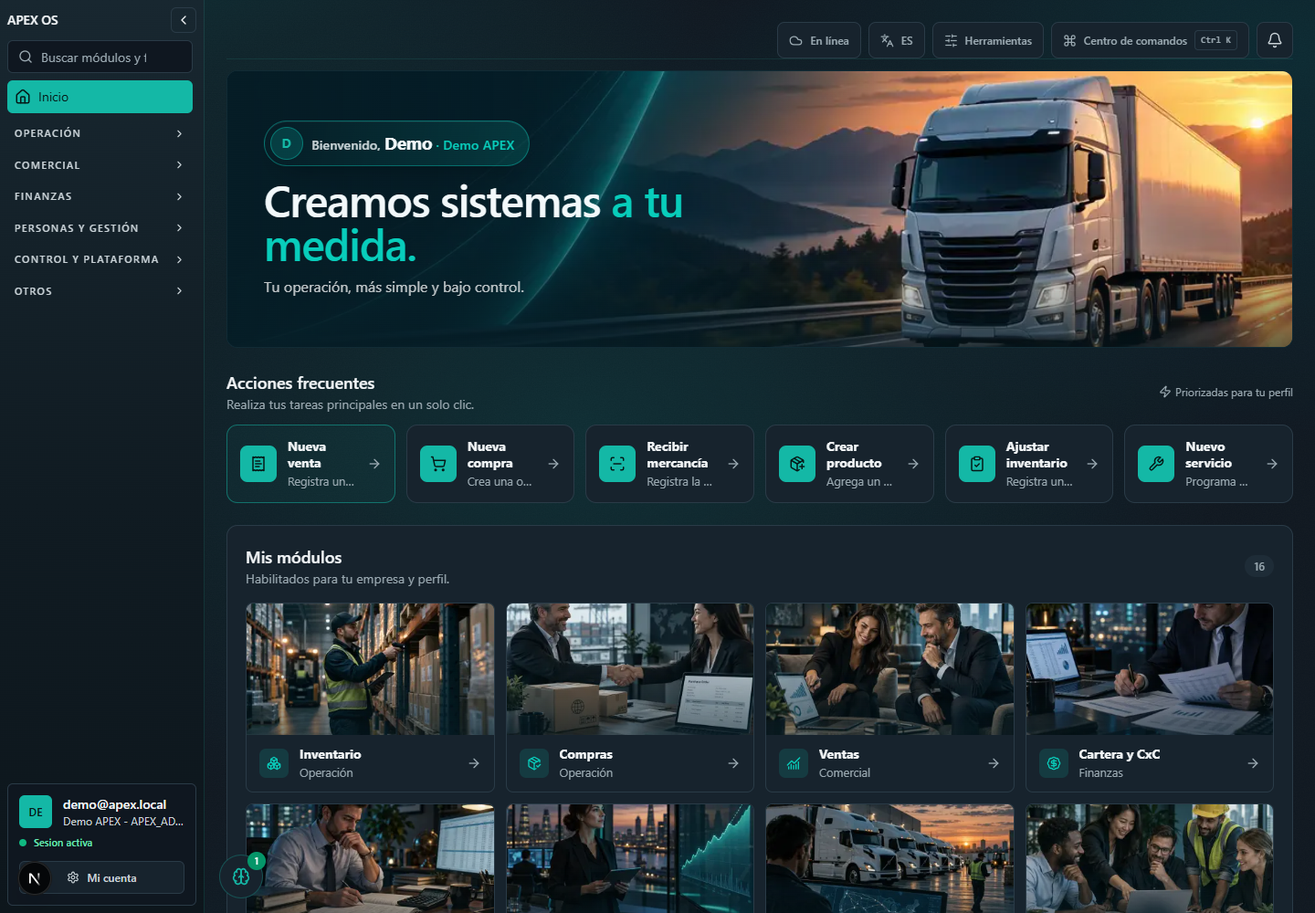
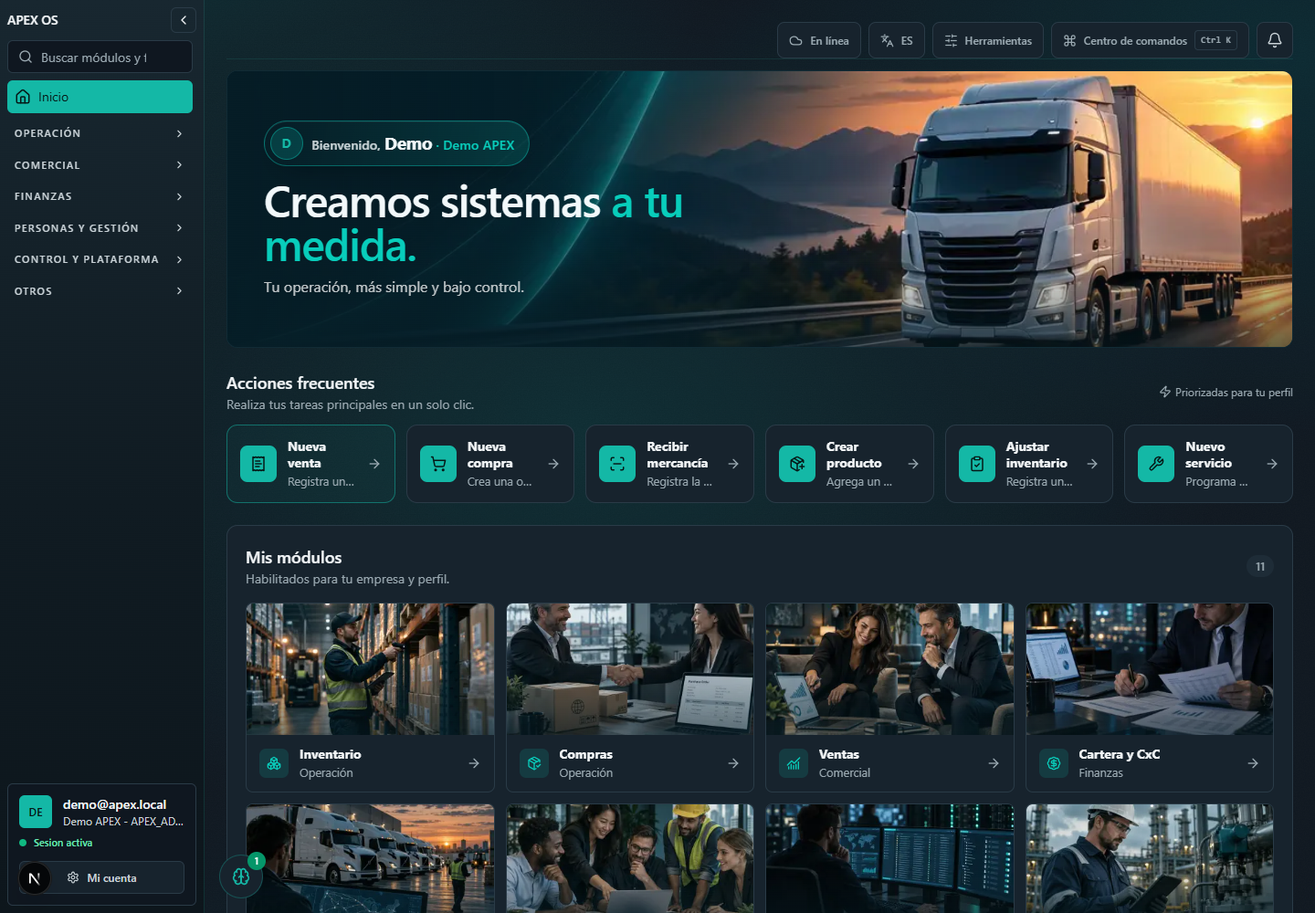
feat(web): el portafolio baja a 12 modulos y retira cinco mas de la oferta
Contabilidad, Tesoreria, Proyectos, APEX Control y APEX AI Core salen del
lobby, la barra, el buscador y las acciones frecuentes por decision del dueno;
sus fichas, assets y rutas publicadas se conservan como excepciones declaradas.
Facturas recibidas queda accesible solo por URL y se declara en la evidencia.

Changed region(s): [[0.1875, 0.868, 0.9688, 1.0]]

diff --git a/apps/web/lib/moduleFunctions.ts b/apps/web/lib/moduleFunctions.ts
@@ -34,17 +34,8 @@ export const MODULE_FUNCTIONS: ModuleFunction[] = [
   { id: "fn-comercio-configuracion", label: "Configurar la vitrina del comercio", description: "Datos del negocio, redes, WhatsApp y campana de descuentos", href: "/dashboard/comercio/configuracion", module: "comercio", keywords: "configuracion vitrina publica codigo whatsapp instagram facebook campana descuento moneda comercio" },
   { id: "fn-comercio-promociones", label: "Gestionar promociones del comercio", description: "Campanas de descuento por categoria o producto y envio por WhatsApp", href: "/dashboard/comercio/promociones", module: "comercio", keywords: "promocion campana descuento mercadeo audiencia categoria producto whatsapp cliente comercio" },
 
-  // Contabilidad
-  { id: "fn-contab-saldos-iniciales", label: "Importar saldos iniciales", description: "Cargue de saldos contables de apertura", href: "/dashboard/contabilidad/importar-saldos-iniciales", module: "contabilidad", keywords: "saldo apertura inicial importar contabilidad" },
-  { id: "fn-contab-pyg", label: "Ver PYG por vehiculo", description: "Estado de resultados por placa: ingresos, gastos y utilidad contra presupuesto", href: "/dashboard/contabilidad/pyg", module: "contabilidad", keywords: "pyg estado resultados utilidad gastos vehiculo placa centro costo presupuesto cumplimiento rentabilidad" },
-  { id: "fn-contab-asientos", label: "Consultar asientos contables", description: "Revisa el registro contable y sus movimientos", href: "/dashboard/contabilidad/asientos", module: "contabilidad", keywords: "asiento contable libro diario comprobante registro movimiento" },
-  { id: "fn-contab-cxp", label: "Gestionar cuentas por pagar", description: "Obligaciones con proveedores y pagos", href: "/dashboard/contabilidad/cuentas-por-pagar", module: "contabilidad", keywords: "cuentas por pagar cxp proveedor obligacion pago cartera" },
-  { id: "fn-contab-estructura", label: "Configurar estructura contable", description: "Centros de costo, periodos y cierre", href: "/dashboard/contabilidad/estructura", module: "contabilidad", keywords: "estructura centro de costo periodo cierre configuracion" },
-  { id: "fn-contab-iva", label: "Gestionar IVA", description: "Maestro y control del impuesto sobre las ventas", href: "/dashboard/contabilidad/iva", module: "contabilidad", keywords: "iva impuesto declaracion ventas tributo" },
-  { id: "fn-contab-plan", label: "Ver plan de cuentas", description: "Catalogo contable de la empresa", href: "/dashboard/contabilidad/plan-cuentas", module: "contabilidad", keywords: "plan cuentas puc catalogo contable" },
-  { id: "fn-contab-reportes", label: "Ver balance de prueba", description: "Estados financieros y saldos por cuenta", href: "/dashboard/contabilidad/reportes", module: "contabilidad", keywords: "balance prueba estados financieros reporte contable libro mayor" },
-  { id: "fn-contab-retenciones", label: "Gestionar retenciones contables", description: "Retenciones practicadas y registradas", href: "/dashboard/contabilidad/retenciones", module: "contabilidad", keywords: "retencion retefuente reteiva impuesto" },
-  { id: "fn-contab-terceros", label: "Gestionar terceros contables", description: "Clientes, proveedores y su informacion fiscal", href: "/dashboard/contabilidad/terceros", module: "contabilidad", keywords: "tercero cliente proveedor nit informacion fiscal" },
+  // Contabilidad y Tesoreria salieron de la oferta: sus pantallas siguen publicadas, pero no
+  // se anuncian en el centro de comandos hasta que el modulo vuelva al portafolio.
 
   // Cartera y CxC
   { id: "fn-cxc-documentos", label: "Consultar cuentas por cobrar", description: "Documentos de cartera, vencimientos y estado de cuenta", href: "/dashboard/cxc/documentos", module: "cxc", keywords: "cartera cxc cuentas por cobrar documentos vencidos cobro cliente" },
@@ -103,9 +94,6 @@ export const MODULE_FUNCTIONS: ModuleFunction[] = [
   { id: "fn-hr-aportes", label: "Gestionar aportes sociales", description: "Planilla de aportes a seguridad social y parafiscales", href: "/dashboard/talento-humano/aportes-sociales", module: "talento-humano", keywords: "aporte social seguridad social planilla parafiscal salud pension arl caja" },
   { id: "fn-hr-libranzas", label: "Gestionar libranzas", description: "Conceptos y descuentos por libranza de empleados", href: "/dashboard/talento-humano/libranzas", module: "talento-humano", keywords: "libranza descuento empleado credito cuota" },
   { id: "fn-hr-liquidacion-trabajador", label: "Liquidar trabajador", description: "Liquidacion final de contrato y saldos", href: "/dashboard/talento-humano/liquidacion-trabajador", module: "talento-humano", keywords: "liquidacion trabajador contrato retiro terminacion saldo final" },
-
-  // Tesoreria
-  { id: "fn-teso-anticipos", label: "Gestionar anticipos", description: "Anticipos a proveedores y su aplicacion", href: "/dashboard/tesoreria/anticipos", module: "tesoreria", keywords: "anticipo proveedor pago anticipado tesoreria" },
 
   // Transporte
   { id: "fn-transp-config", label: "Configurar transporte", description: "Preferencias y parametros de la operacion", href: "/dashboard/transporte/configuracion", module: "transporte", keywords: "configuracion transporte preferencia parametro operacion" },

diff --git a/apps/web/lib/modules.ts b/apps/web/lib/modules.ts
@@ -392,8 +392,9 @@ export const MODULES_BY_ID = Object.fromEntries(MODULES.map((module) => [module.
 export const ALL_MODULE_IDS = MODULES.map((module) => module.id);
 
 // Portafolio publicado: los retirados conservan ficha y assets, pero dejan de ofrecerse en
-// lobby, barra y buscador; sin pantalla propia, su ficha genérica responde 404. Facturación
-// se retira de la oferta y mantiene sus rutas operativas ya publicadas.
+// lobby, barra y buscador; sin pantalla propia, su ficha genérica responde 404. Los retirados
+// con rutas ya publicadas (Facturación, Contabilidad, Tesorería, Proyectos, APEX Control y
+// APEX AI Core) las mantienen: salen de la oferta, no del código.
 const RETIRED_MODULE_SLUGS = new Set([
   "punto-de-venta",
   "costos",
@@ -409,7 +410,12 @@ const RETIRED_MODULE_SLUGS = new Set([
   "facturacion",
   "facturacion-electronica",
   "configuracion-inicial",
-  "suscripciones"
+  "suscripciones",
+  "contabilidad",
+  "tesoreria",
+  "proyectos",
+  "apex-control",
+  "apex-ai"
 ]);
 
 export function isPortfolioModule(module: ApexModule) {

diff --git a/docs/briefs/2026-11-12-curaduria-portafolio.md b/docs/briefs/2026-11-12-curaduria-portafolio.md
@@ -1,49 +1,56 @@
-# Brief — Curaduría del portafolio: 17 visibles y 15 retirados
+# Brief — Curaduría del portafolio: 12 visibles y 20 retirados
 
 - **ID**: `2026-11-12-curaduria-portafolio`
 - **Fecha**: `2026-11-12`
 - **Rama activa**: `desarrollo`
-- **Prompt crudo**: "Aplica el corte de 17 visibles sin tocar los seeds del backend" · (decisión previa: retirar del portafolio los módulos sin desarrollar para evitar saturación)
+- **Prompt crudo**: "Aplica el corte de 17 visibles sin tocar los seeds del backend" · "Si hay que bajar a 17, retira también Facturación" · "vamos a ocultar totalmente también los módulos que te menciono … por ahora solo deseo que en apex sea visual lo que realmente está funcionando y operando" (sobre la captura con X en Contabilidad, Tesorería, Proyectos, APEX Control y APEX AI Core)
 
 ## 0. Naturaleza del cambio — curaduría de catálogo, no capa visual
 
 - **Qué es**: la ficha de cada módulo se conserva, pero solo los desarrollados forman el
   **portafolio publicado** que ven lobby, barra lateral, buscador y URL directa. Los retirados no se
   borran: quedan en el catálogo con su ficha y sus assets por si se retoman.
-- **Inventario esperado**: `apps/web/lib/modules.ts`, `apps/web/app/dashboard/page.tsx`,
-  `apps/web/app/dashboard/[module]/page.tsx`, `apps/web/components/shell/Sidebar.tsx`,
-  `apps/web/components/system/CommandPalette.tsx`, dos pruebas existentes cuyo contrato de código
-  cambia, la prueba nueva `module-portfolio.test.mjs`, documentación y evidencia, y agentes.
+- **Inventario esperado**: `apps/web/lib/modules.ts`, `apps/web/lib/moduleFunctions.ts`,
+  `apps/web/app/dashboard/page.tsx`, `apps/web/app/dashboard/[module]/page.tsx`,
+  `apps/web/components/shell/Sidebar.tsx`, `apps/web/components/system/CommandPalette.tsx`, dos
+  pruebas existentes cuyo contrato de código cambia, la prueba nueva `module-portfolio.test.mjs`,
+  documentación y evidencia, y agentes.
 - **Cero cambios en el backend**: por decisión del dueño no se tocan `SEED_MODULES` ni el plan crown
   de `apps/api/src/modules/auth/service.js`. Los códigos retirados que un tenant ya tenga en
   `active_modules` dejan de verse igual, porque el portafolio filtra antes de la habilitación.
 - **Lógica de negocio intacta**: no se cambian consultas, permisos ni datos. El corte es de
   presentación del catálogo; `loadModuleAccess` sigue calculando habilitación exactamente igual.
-- **Corrección de la lista y cierre en 17.** Al recorrer el catálogo completo apareció **APEX AI
-  Core** (`id: "AI-CORE"`), que la tabla previa omitió por su identificador no numérico: está
-  desarrollado y queda visible, por eso el primer corte real fue 18/14 sobre 32 fichas. El dueño
-  mantuvo su cifra y pidió retirar también **Facturación**: el corte queda en **17 visibles /
-  15 retirados**.
-- **Facturación se retira de la oferta, no del código.** Tenía pantallas propias publicadas
-  (`/dashboard/facturacion`, `/documentos`, `/emitir`) y funciones en el catálogo de comandos. Se
-  quitan sus dos entradas de oferta (`new-invoice` y `fn-fact-documentos`) para que no aparezca en
-  acciones frecuentes ni en el buscador, y sus rutas siguen respondiendo para quien las tenga
-  guardadas. Es la única excepción con ruta heredada y la prueba la declara.
+- **Corrección de la lista y cierre en 12.** Al recorrer el catálogo completo apareció **APEX AI
+  Core** (`id: "AI-CORE"`), que la tabla previa omitió por su identificador no numérico: el primer
+  corte real fue 18/14 sobre 32 fichas. El dueño luego pidió retirar **Facturación** (17/15) y,
+  sobre una captura del lobby, marcó con X **Contabilidad, Tesorería, Proyectos, APEX Control y APEX
+  AI Core** porque «aún falta mucho para trabajarlos». El corte final es **12 visibles /
+  20 retirados**.
+- **Seis retirados conservan ruta operativa: se retiran de la oferta, no del código.** Facturación,
+  Contabilidad, Tesorería, Proyectos, APEX Control y APEX AI Core tenían pantallas propias
+  publicadas. Se quitan 14 entradas de oferta en total, contando ambas tandas (2 de Facturación,
+  11 de Contabilidad y 1 de Tesorería), para que no aparezcan en acciones frecuentes ni en el
+  buscador, y sus rutas siguen respondiendo para quien las tenga guardadas. La prueba del portafolio
+  declara las seis excepciones; la del buscador exime sus rutas de la cobertura.
+- **Consecuencia declarada**: el monitor certificado de **Facturas recibidas** pierde su única
+  entrada de oferta (`fn-contab-facturas-recibidas`). La pantalla sigue cargando por URL directa,
+  pero deja de anunciarse en el centro de comandos hasta que Contabilidad vuelva al portafolio.
 - **Verificación funcional de no-regresión**: suite web **697/697**, `typecheck` limpio y ESLint
   sin errores.
 
 ## 1. Objetivo
 
-Evitar que el lobby y la navegación ofrezcan herramientas que aún no existen, sin perder el trabajo
-de fichas y assets:
+Evitar que el lobby y la navegación ofrezcan herramientas que aún no existen o aún no operan, sin
+perder el trabajo de fichas y assets:
 
 1. **Criterio medido, no el campo `status`.** Se clasificó por pantalla real, llamada a API y
    certificación. `status` estaba desactualizado: marcaba «En construcción» a Ventas, Facturación,
    Tesorería, Transporte y Talento humano, todos con flujo real.
-2. **Retirar 15 fichas sin pantalla.** Punto de venta, Costos, Presupuestos, Producción, Recetas,
+2. **Retirar 20 fichas sin borrarlas.** Punto de venta, Costos, Presupuestos, Producción, Recetas,
    Calidad, Devoluciones, Comercio exterior, Activos, CRM, Planeación de demanda, Facturación,
-   Facturación electrónica, Configuración inicial y Suscripciones dejan de ofrecerse; las 14 sin
-   pantalla solo abrían la página genérica `[module]` y Facturación conserva sus rutas publicadas.
+   Facturación electrónica, Configuración inicial, Suscripciones, Contabilidad, Tesorería,
+   Proyectos, APEX Control y APEX AI Core dejan de ofrecerse; 14 sin pantalla solo abrían la página
+   genérica `[module]` y las otras seis conservan sus rutas publicadas.
 3. **Corregir la ficha de lo que sí opera.** Ventas, Facturación y Tesorería pasan a «Base
    funcional»; Transporte y Talento humano a «Listo para operar».
 
@@ -51,14 +58,14 @@ de fichas y assets:
 
 | Estado | Archivo | Qué cambia |
 |---|---|---|
-| `M` | `apps/web/lib/modules.ts` | Constante `RETIRED_MODULE_SLUGS` (15), helpers `isPortfolioModule`/`isRetiredModuleSlug` y listas derivadas `PORTFOLIO_MODULES`/`RETIRED_MODULES`; estados corregidos en 5 fichas |
+| `M` | `apps/web/lib/modules.ts` | Constante `RETIRED_MODULE_SLUGS` (20), helpers `isPortfolioModule`/`isRetiredModuleSlug` y listas derivadas `PORTFOLIO_MODULES`/`RETIRED_MODULES`; estados corregidos en 5 fichas |
 | `M` | `apps/web/app/dashboard/page.tsx` | Lobby filtra por `PORTFOLIO_MODULES` y enlaza con `moduleHome` (CxC abre su superficie real, no la ficha genérica) |
 | `M` | `apps/web/components/shell/Sidebar.tsx` | La barra solo construye ítems del portafolio y usa `moduleHome`: los retirados desaparecen en lugar de quedar como candados |
 | `M` | `apps/web/components/system/CommandPalette.tsx` | Acciones, funciones y módulos del buscador exigen que el módulo esté en el portafolio |
-| `M` | `apps/web/lib/moduleFunctions.ts`, `apps/web/lib/operationalWorkspace.ts` | Salen `fn-fact-documentos` y `new-invoice`: Facturación deja de ofrecerse aunque sus rutas sigan activas |
+| `M` | `apps/web/lib/moduleFunctions.ts`, `apps/web/lib/operationalWorkspace.ts` | Salen 14 entradas de oferta: 2 de Facturación, 11 de Contabilidad y 1 de Tesorería; sus rutas siguen activas |
 | `M` | `apps/web/app/dashboard/[module]/page.tsx` | Un slug retirado responde `notFound()` aunque el tenant conserve su código en `active_modules` |
-| `M` | `apps/web/test/command-palette-module-functions.test.mjs`, `apps/web/test/commercial-visit-selection.test.mjs` | Afirman el nuevo contrato de filtro, `moduleHome` y la exención de rutas de un retirado |
-| `A` | `apps/web/test/module-portfolio.test.mjs` | 6 pruebas: 32 fichas / 17 visibles / 15 retirados, pantalla propia por visible, retirado sin pantalla fuera de la ficha genérica, excepción declarada de Facturación, consumidores filtrados, 404 directo, estados corregidos y funciones sin destinos retirados |
+| `M` | `apps/web/test/command-palette-module-functions.test.mjs`, `apps/web/test/commercial-visit-selection.test.mjs` | Afirman el nuevo contrato de filtro, `moduleHome`, la exención de rutas de un retirado y que PYG deja de ofrecerse |
+| `A` | `apps/web/test/module-portfolio.test.mjs` | 6 pruebas: 32 fichas / 12 visibles / 20 retirados, pantalla propia por visible, retirado sin pantalla fuera de la ficha genérica, seis excepciones con ruta heredada, consumidores filtrados, 404 directo, estados corregidos y funciones sin destinos retirados |
 | `A` | `docs/qa/evidence/lobby-v4-20261110/evidence-portfolio-lobby-{light,dark}.png`, `evidence-portfolio-metrics.json` | Capturas del lobby con sesión real y métricas de tiles, barra, buscador y URL directa |
 | `M` | `docs/qa/evidence/lobby-v4-20261110/validacion.md` | Ronda 10, filas de cambios y recuento de suite |
 | `A` | `docs/briefs/2026-11-12-curaduria-portafolio.md` | Este brief |
@@ -79,7 +86,7 @@ de fichas y assets:
 - Assets del lobby: las 32 fotografías siguen en `public/assets/lobby/`; las retiradas simplemente
   no se ofrecen.
 - Datos de tenants: no se reescribe `active_modules` de ningún tenant.
-- Páginas operativas de los módulos visibles: sin cambios de negocio.
+- Páginas operativas de los módulos retirados: siguen publicadas y sin cambios de negocio.
 - Promoción a `develop`/`main`, despliegues, migraciones remotas e infraestructura: requieren
   autorización explícita e independiente.
 - `.tmp/`: herramientas locales, no entran al commit.
@@ -90,20 +97,24 @@ de fichas y assets:
 - El certificador `certify-ui-ux-phase-two-local.mjs` exige «Bienvenido,» y «Priorizadas para tu
   perfil»; el lobby conserva ambos.
 - Un módulo visible no puede carecer de pantalla; la prueba lo verifica contra el sistema de archivos.
-- Un retirado no puede reaparecer por `active_modules`, buscador ni URL directa.
+- Un retirado no puede reaparecer por `active_modules`, buscador ni URL directa, salvo las seis rutas
+  heredadas declaradas.
 
 ## 5. Criterios de aceptación
 
 1. `cd apps/web && node --test "test/*.test.mjs"` → **697/697** en verde.
 2. `node --test test/module-portfolio.test.mjs` → **6/6**.
 3. `tsc --noEmit` sin hallazgos y ESLint sin errores.
-4. Evidencia (`evidence-portfolio-metrics.json`): lobby con **16 tiles** para el tenant demo
-   (17 publicados menos Gastos Menores, que no está habilitado en ese tenant), **0** slugs retirados
+4. Evidencia (`evidence-portfolio-metrics.json`): lobby con **11 tiles** para el tenant demo
+   (12 publicados menos Gastos Menores, que no está habilitado en ese tenant), **0** slugs retirados
    en tiles o barra, **0** candados en la barra, buscador sin fichas ni funciones retiradas
-   («crm» y «documentos de facturacion» → 0) y URL directa de `punto-de-venta` y
-   `configuracion-inicial` con **404**. `/dashboard/facturacion` sigue cargando por ser ruta
-   heredada declarada. Desbordamiento horizontal `0` en claro y oscuro.
-   `/dashboard/cxc/documentos` e `/dashboard/inventario` abren pantallas reales.
+   («tesoreria», «proyectos», «apex control», «apex ai», «pyg» y «crm» → 0) y las fichas genéricas de
+   `punto-de-venta` y `configuracion-inicial` con **404**. Las seis rutas heredadas
+   —`/dashboard/facturacion`, `/dashboard/contabilidad`,
+   `/dashboard/contabilidad/facturas-recibidas`, `/dashboard/tesoreria`, `/dashboard/proyectos`,
+   `/dashboard/apex-control` y `/dashboard/apex-ai`— siguen cargando su pantalla. Desbordamiento
+   horizontal `0` en claro y oscuro. `/dashboard/cxc/documentos`, `/dashboard/inventario`,
+   `/dashboard/ventas` y `/dashboard/talento-humano/rutas` abren pantallas reales.
 5. Las capturas muestran sesión real (`demo@apex.local`, «Sesión activa»).
 
 ## 6. Evidencia y certificación exigida
@@ -111,9 +122,10 @@ de fichas y assets:
 - Pruebas: suite web **697/697** y `module-portfolio.test.mjs` **6/6**.
 - Evidencia: `docs/qa/evidence/lobby-v4-20261110/evidence-portfolio-lobby-{light,dark}.png` y
   `evidence-portfolio-metrics.json`; ronda 10 en `validacion.md`.
-- Nota de lectura del buscador: «punto de venta» devuelve «Vender en el mostrador» (función de
-  Comercio, módulo visible), «crm» y «documentos de facturacion» devuelven cero resultados; ninguna
-  coincidencia es una ficha ni una función retirada.
+- Nota de lectura del buscador: «punto de venta» devuelve «Vender en el mostrador» y «presupuesto»
+  «Gestionar presupuestos comerciales», ambas funciones de módulos visibles; las consultas de los
+  cinco módulos recién retirados devuelven cero resultados; ninguna coincidencia es una ficha ni una
+  función retirada.
 - `certification_status` esperado: `local_passed_qa_pending`.
 
 ## 7. Capacidades protegidas
@@ -133,20 +145,24 @@ de fichas y assets:
   declarada no tocar `apps/api` en esta ronda.
 - Riesgo: que el buscador siga mostrando palabras de un retirado → Medido: solo aparecen funciones
   de módulos visibles; la prueba impide que una función apunte a un retirado.
+- Riesgo: que un flujo certificado dependa de una entrada de oferta retirada → Medido: Facturas
+  recibidas sigue cargando por URL y se declara como consecuencia; si el dueño la quiere de vuelta en
+  el buscador, basta devolver su entrada sin reabrir el módulo completo.
 
 ## 9. Supuestos y preguntas abiertas
 
 - Supuesto: retirar del portafolio no exige borrar fichas ni assets; se conservan para retomarlos.
-- Decisión del dueño: el portafolio queda en **17 visibles** y Facturación se retira de la oferta.
-  Sus rutas siguen activas para no romper el flujo fiscal de quien ya las usa; si el dueño quiere
-  bloquearlas también, es una ronda aparte con redirección y aviso.
+- Decisión del dueño: el portafolio queda en **12 visibles**; Contabilidad, Tesorería, Proyectos,
+  APEX Control y APEX AI Core se ocultan por completo de la oferta aunque sus rutas sigan activas.
+  Bloquear también esas rutas es una ronda aparte con redirección y aviso.
 - Deuda declarada: alinear `SEED_MODULES` y el plan crown en la API requiere su propia ronda con
   agentes de backend, seguridad y QA.
 
 ## 10. Autorizaciones requeridas
 
 - [x] Implementación en `desarrollo` (decisión del dueño: corte de portafolio).
-- [x] Portafolio en 17 visibles y retiro de Facturación de la oferta (decisión explícita del dueño).
+- [x] Portafolio en 12 visibles con Contabilidad, Tesorería, Proyectos, APEX Control y APEX AI Core
+  retirados de la oferta (decisión explícita del dueño sobre la captura).
 - [x] No tocar seeds del backend (decisión explícita del dueño).
 - [ ] Promoción a `develop`/`main`: no solicitada ni incluida.
 
@@ -155,8 +171,8 @@ de fichas y assets:
 - **Preflight de agentes**: `OK`; ruteo `equipo-apexos`, `apexos-brief`, `apexos-frontend` y
   `apexos-qa`.
 - **Documentación actualizada**: este brief y `validacion.md` (ronda 10).
-- **Agentes actualizados**: `apexos-frontend` 2.23.1 (control 38.g), `apexos-qa` 2.51.1
-  (control 64.f), `equipo-apexos` 2.29.1 (control 42.f) y `apexos-brief` 2.42.1 (regla 55).
+- **Agentes actualizados**: `apexos-frontend` 2.23.2, `apexos-qa` 2.52.1, `equipo-apexos` 2.30.1 y
+  `apexos-brief` 2.43.1 (el corte de 12 retirados con seis rutas heredadas).
 - **Registro**: `agents/registry.json` y `agents/CHANGELOG.md` en el mismo commit.
 - **Secuencia de cierre**: `agents:sync` → `agents:check` → `test:agents` → `agents:preflight` →
   `agents:coverage` → pruebas → commit → `git push origin desarrollo`.

diff --git a/docs/qa/evidence/lobby-v4-20261110/validacion.md b/docs/qa/evidence/lobby-v4-20261110/validacion.md
@@ -8,41 +8,49 @@ queda sin intervenir hasta la aprobación explícita de la siguiente fase. La ca
 ronda 6 es la excepción deliberada: vive en el layout raíz porque el dueño pidió que el fondo sea
 «aplicable a todas las ventanas», sin cambiar el contenido ni la lógica de ningún módulo.
 
-## Ronda 10 (curaduría del portafolio: 17 visibles y 15 retirados)
+## Ronda 10 (curaduría del portafolio: 12 visibles y 20 retirados)
 
 - **El corte salió de pantallas, API y certificación, no del campo `status`.** El catálogo tiene 32
   fichas; 14 solo abrían la página genérica `[module]` y 5 visibles estaban mal clasificadas como
   «En construcción» (Ventas, Facturación, Tesorería, Transporte y Talento humano).
-- **Se retiraron 15 fichas sin borrarlas**: Punto de venta, Costos, Presupuestos, Producción,
+- **Se retiraron 20 fichas sin borrarlas**: Punto de venta, Costos, Presupuestos, Producción,
   Recetas, Calidad, Devoluciones, Comercio exterior, Activos, CRM, Planeación de demanda,
-  **Facturación**, Facturación electrónica, Configuración inicial y Suscripciones. Conservan ficha y
-  fotografía en el repositorio; solo dejan de ofrecerse.
+  Facturación, Facturación electrónica, Configuración inicial, Suscripciones, **Contabilidad,
+  Tesorería, Proyectos, APEX Control y APEX AI Core**. Conservan ficha y fotografía en el
+  repositorio; solo dejan de ofrecerse.
 - **Una sola marca manda en los cuatro consumidores.** `RETIRED_MODULE_SLUGS` en `lib/modules.ts`
   alimenta `PORTFOLIO_MODULES`; el lobby, la barra lateral, el buscador y la ficha `[module]` la
   respetan. La barra deja de pintar candados de retirados y el slug retirado responde **404** aunque
   el tenant conserve su código en `active_modules`.
-- **Facturación se retira de la oferta, no del código.** Ya tenía pantallas propias publicadas
-  (`/dashboard/facturacion`, `/documentos`, `/emitir`), así que deja de aparecer en el lobby, la
-  barra, el buscador y las acciones frecuentes —se retiraron sus dos entradas de función— pero sus
-  rutas siguen respondiendo para quien las tenga guardadas. La prueba del portafolio la declara como
-  única excepción con ruta heredada.
+- **Seis retirados conservan ruta operativa: se retiran de la oferta, no del código.** Facturación,
+  Contabilidad, Tesorería, Proyectos, APEX Control y APEX AI Core ya tenían pantallas propias
+  publicadas. Salen del lobby, la barra, el buscador y las acciones frecuentes —se retiraron 14
+  entradas de función (2 de Facturación, 11 de Contabilidad y 1 de Tesorería)— pero sus rutas
+  siguen respondiendo para quien las tenga guardadas. La prueba del portafolio los declara como
+  excepciones con ruta heredada, y la del buscador deja de exigir la cobertura de esas rutas.
+- **Consecuencia declarada: el monitor de Facturas recibidas queda solo por URL.** Su única entrada
+  de oferta era `fn-contab-facturas-recibidas`; al retirar Contabilidad, la pantalla certificada
+  `/dashboard/contabilidad/facturas-recibidas` sigue cargando pero ya no se anuncia en el centro de
+  comandos. Vuelve a ofrecerse cuando el módulo retorne al portafolio.
 - **CxC y los enlaces de tiles.** El lobby y la barra pasan a `moduleHome()`, así Cartera y CxC abre
   sus documentos reales en lugar de la ficha genérica.
-- **Cifra final acordada con el dueño: 17 visibles / 15 retirados.** El catálogo tiene un módulo con
-  id no numérico (`AI-CORE`, APEX AI Core) que la tabla previa omitió; está desarrollado y queda
-  visible. Tras la aprobación de los 18, el dueño pidió bajar a 17 retirando también Facturación.
+- **Cifra final acordada con el dueño: 12 visibles / 20 retirados.** El catálogo tiene un módulo con
+  id no numérico (`AI-CORE`, APEX AI Core) que la tabla previa omitió. La secuencia de decisiones
+  fue: 18/14 aprobados, luego 17/15 al retirar Facturación, y finalmente 12/20 cuando el dueño marcó
+  con X Contabilidad, Tesorería, Proyectos, APEX Control y APEX AI Core porque «aún falta mucho para
+  trabajarlos» y quiere que APEX muestre solo lo que opera.
 - **Seeds intactos por decisión del dueño.** No se tocó `apps/api`; los códigos retirados que algún
   tenant tenga habilitados quedan invisibles para la oferta, pero siguen en sus datos. Queda como
   deuda declarada alinear `SEED_MODULES` y el plan crown en una ronda de backend aparte.
 - **Evidencia.** `evidence-portfolio-lobby-{light,dark}.png` y `evidence-portfolio-metrics.json` con
-  sesión verificada: **16 tiles** en el tenant demo (17 publicados menos Gastos Menores, que no está
-  habilitado), 0 retirados en tiles o barra, 16 enlaces de módulo, 0 candados, buscador sin fichas ni
-  funciones retiradas («crm» y «documentos de facturacion» → 0), `punto-de-venta` y
-  `configuracion-inicial` con 404, `/dashboard/facturacion` cargando su pantalla (excepción
-  declarada), CxC e Inventario abriendo pantallas reales y desbordamiento horizontal 0 en ambos
-  temas.
+  sesión verificada: **11 tiles** en el tenant demo (12 publicados menos Gastos Menores, que no está
+  habilitado), 0 retirados en tiles o barra, 11 enlaces de módulo, 0 candados, buscador sin fichas ni
+  funciones retiradas («tesoreria», «proyectos», «apex control», «apex ai», «pyg» → 0; «crm» → 0),
+  `punto-de-venta` y `configuracion-inicial` con 404, las seis rutas heredadas cargando su pantalla
+  (incluido el monitor de facturas recibidas), Inventario, Ventas, CxC y mallas abriendo pantallas
+  reales y desbordamiento horizontal 0 en ambos temas.
 - **Verificación.** Suite web **697/697** (6 pruebas de `module-portfolio.test.mjs`, incluida la
-  excepción de ruta heredada), `typecheck` limpio y ESLint sin errores (22 avisos preexistentes).
+  excepción de rutas heredadas), `typecheck` limpio y ESLint sin errores (22 avisos preexistentes).
 
 ## Ronda 9 (el saludo del hero da protagonismo al usuario)
 
@@ -242,12 +250,12 @@ ronda 6 es la excepción deliberada: vive en el layout raíz porque el dueño pi
 | `apps/web/app/globals.css` | M — ronda 9: `.apex-lobby-eyebrow` como cápsula que abraza su contenido, con avatar, copia, nombre y empresa por nivel tipográfico |
 | `apps/web/test/lobby-greeting.test.mjs` | A — 2 pruebas de contrato: estructura del saludo con avatar y nombre, y escala tipográfica sin desbordar el chip |
 | `docs/qa/evidence/lobby-v4-20261110/evidence-greeting-*.png` y `evidence-greeting-metrics.json` | A — cuatro capturas del hero (escritorio/móvil, claro/oscuro) con métricas medidas |
-| `apps/web/lib/modules.ts` | M — ronda 10: `RETIRED_MODULE_SLUGS`, helpers y listas del portafolio (17 visibles / 15 retirados); estados corregidos en Ventas, Facturación, Tesorería, Transporte y Talento humano |
+| `apps/web/lib/modules.ts` | M — ronda 10: `RETIRED_MODULE_SLUGS`, helpers y listas del portafolio (12 visibles / 20 retirados); estados corregidos en Ventas, Facturación, Tesorería, Transporte y Talento humano |
 | `apps/web/app/dashboard/page.tsx`, `apps/web/components/shell/Sidebar.tsx` | M — filtran por `PORTFOLIO_MODULES` y enlazan con `moduleHome`; los retirados dejan de pintarse |
 | `apps/web/components/system/CommandPalette.tsx`, `apps/web/app/dashboard/[module]/page.tsx` | M — el buscador exige portafolio y la ficha genérica de un retirado responde 404 |
-| `apps/web/lib/moduleFunctions.ts`, `apps/web/lib/operationalWorkspace.ts` | M — salen las dos entradas de Facturación (documentos y emisión); sus rutas siguen operativas |
-| `apps/web/test/module-portfolio.test.mjs` | A — 6 pruebas del corte (fichas, pantallas con la excepción de Facturación, consumidores, 404, estados y funciones) |
-| `apps/web/test/command-palette-module-functions.test.mjs`, `apps/web/test/commercial-visit-selection.test.mjs` | M — contrato actualizado al filtro de portafolio, a `moduleHome` y a la exención de rutas de un retirado |
+| `apps/web/lib/moduleFunctions.ts`, `apps/web/lib/operationalWorkspace.ts` | M — salen 14 entradas de oferta (2 de Facturación, 11 de Contabilidad y 1 de Tesorería); sus rutas siguen operativas |
+| `apps/web/test/module-portfolio.test.mjs` | A — 6 pruebas del corte (fichas, pantallas con seis excepciones de ruta heredada, consumidores, 404, estados y funciones) |
+| `apps/web/test/command-palette-module-functions.test.mjs`, `apps/web/test/commercial-visit-selection.test.mjs` | M — contrato actualizado al filtro de portafolio, a `moduleHome`, a la exención de rutas de un retirado y a que PYG deja de ofrecerse |
 | `docs/qa/evidence/lobby-v4-20261110/evidence-portfolio-lobby-{light,dark}.png` y `evidence-portfolio-metrics.json` | A — lobby y métricas del corte con sesión real |
 
 ## Validación ejecutada
@@ -274,14 +282,17 @@ ronda 6 es la excepción deliberada: vive en el layout raíz porque el dueño pi
     avatar 36×36 «D», nombre 19 px/700 `rgb(242 248 250)`, copia 14 px, empresa 14 px acento,
     `h1` 48 px (escritorio) / 36 px (móvil) y desbordamiento horizontal `0`.
   - Ronda 10, dos capturas del lobby con el corte (`evidence-portfolio-lobby-{light,dark}.png`) y
-    `evidence-portfolio-metrics.json`, con login verificado: 16 tarjetas del portafolio para el
-    tenant demo (17 publicadas menos Gastos Menores, sin derecho en ese tenant), `retiredVisible`
-    y `retiredLabelsInSidebar` vacíos, 16 enlaces de módulo en la barra, 0 botones bloqueados y
+    `evidence-portfolio-metrics.json`, con login verificado: 11 tarjetas del portafolio para el
+    tenant demo (12 publicadas menos Gastos Menores, sin derecho en ese tenant), `retiredVisible`
+    y `retiredLabelsInSidebar` vacíos, 11 enlaces de módulo en la barra, 0 botones bloqueados y
     desbordamiento horizontal `0` en ambos temas. El buscador deja de devolver los retirados
-    («crm» y «documentos de facturacion» → 0 opciones) y sus direcciones directas
-    (`/dashboard/punto-de-venta`, `/dashboard/configuracion-inicial`) responden 404, mientras
-    `/dashboard/facturacion` sigue cargando su pantalla por ser una ruta heredada declarada, y CxC
-    abre `/dashboard/cxc/documentos` e Inventario su pantalla real.
+    («tesoreria», «proyectos», «apex control», «apex ai», «pyg» y «crm» → 0 opciones; «punto de
+    venta» y «presupuesto» solo devuelven funciones de Comercio y Gestión Comercial, que siguen
+    visibles) y las fichas genéricas (`/dashboard/punto-de-venta`, `/dashboard/configuracion-inicial`)
+    responden 404. Las seis rutas heredadas —`/dashboard/facturacion`, `/dashboard/contabilidad`,
+    `/dashboard/tesoreria`, `/dashboard/proyectos`, `/dashboard/apex-control` y `/dashboard/apex-ai`—
+    siguen cargando su pantalla, igual que el monitor `/dashboard/contabilidad/facturas-recibidas`;
+    Inventario, Ventas, CxC y mallas abren pantallas reales.
 - Rendimiento del fondo medido en el arnés (2 s de desplazamiento, escritorio): con y sin la capa,
   16,67 ms promedio, p95 16,8 ms, 0 cuadros sobre 33 ms, 0 layouts y 0 scripts; ninguna petición de
   red nueva.
@@ -308,10 +319,11 @@ ronda 6 es la excepción deliberada: vive en el layout raíz porque el dueño pi
    prefiere fotografía real de la operación, se sustituyen los assets sin tocar código.
 4. Los seeds del backend (`SEED_MODULES` y el plan corona en
    `apps/api/src/modules/auth/service.js`) siguen habilitando `M-01…M-27` por decisión del dueño:
-   el corte es de catálogo y no de suscripción, así que los 15 retirados siguen viajando en
+   el corte es de catálogo y no de suscripción, así que los 20 retirados siguen viajando en
    `active_modules` aunque ninguna superficie los ofrezca. Alinearlos es una ronda de backend aparte.
-   Facturación conserva además sus rutas operativas publicadas, que quedan accesibles por URL
-   directa aunque el módulo ya no se ofrezca.
+   Los seis retirados con rutas publicadas (Facturación, Contabilidad, Tesorería, Proyectos, APEX
+   Control y APEX AI Core) las conservan accesibles por URL directa aunque sus módulos ya no se
+   ofrezcan; el monitor de Facturas recibidas es el caso más visible de esa asimetría.
 
 ## Reproducir
 
